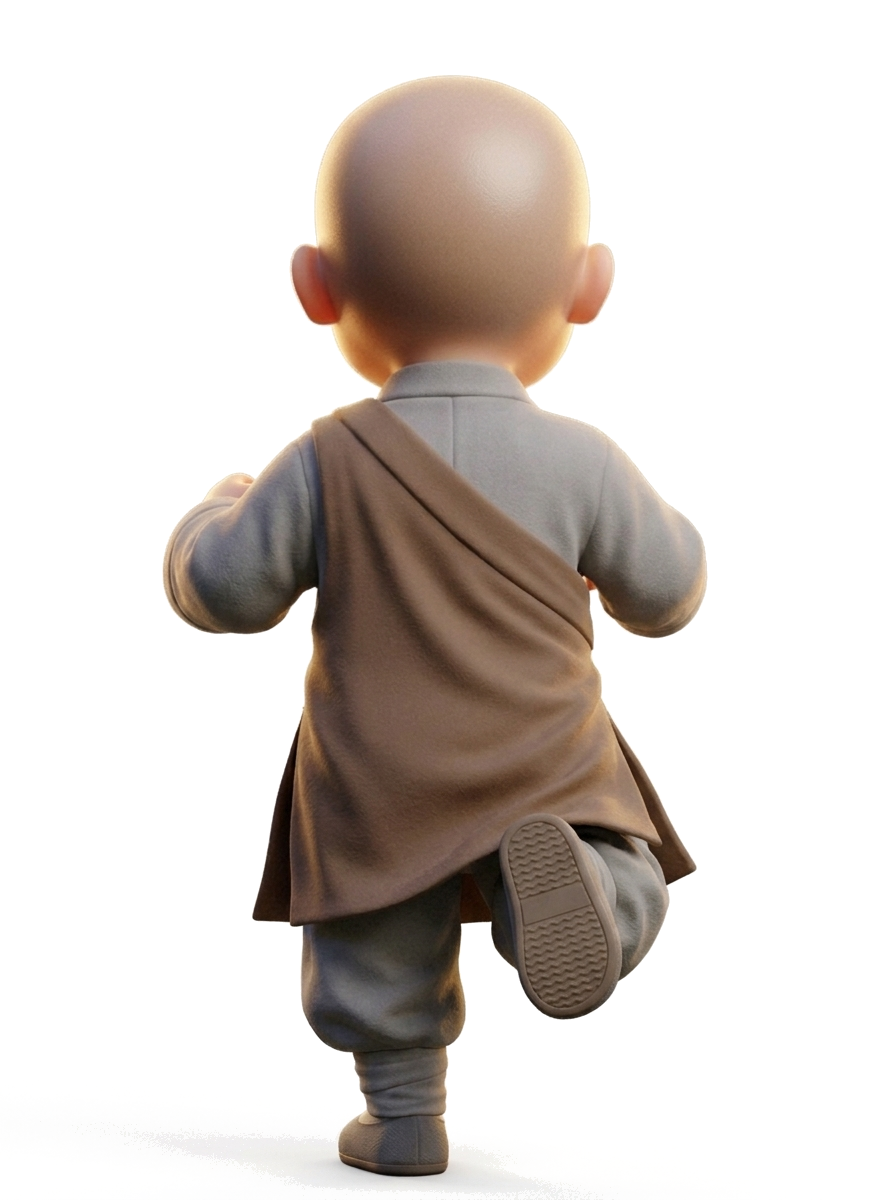
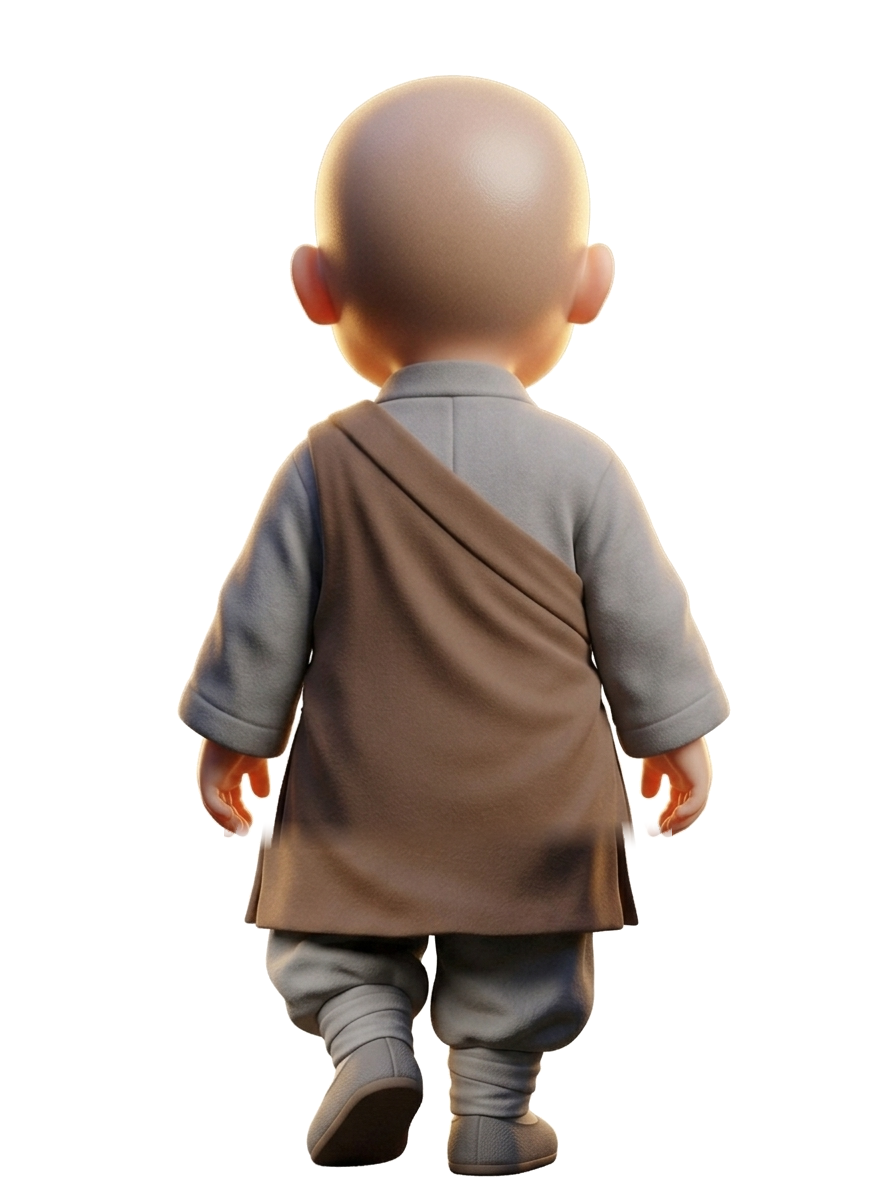
fix: smooth cross-fade walk cycle with zero-jitter upper body and natural temple pace

diff --git a/src/components/Meditate/SowonsaSanctuaryModal.jsx b/src/components/Meditate/SowonsaSanctuaryModal.jsx
@@ -368,24 +368,24 @@ export default function SowonsaSanctuaryModal({ isOpen, onClose, onOpenLantern, 
     }
 
     // 🎬 대웅전 입장 시퀀스:
-    // 0~2.4s: 왼발-오른발을 번갈아 뚜벅뚜벅 내딛으며 걸어 들어오기 (walkFrame 280ms 교차)
-    // 2.4~4.5s: 방석 위에 서서 삼존불 전 정중히 합장 반배 올리기
-    // 4.5s: 비단 방석에 가부좌 틀고 착석 완료
+    // 0~3.4s: 왼발-오른발을 번갈아 사뿐사뿐 내딛으며 대청마루에서 걸어 들어오기 (walkFrame 550ms 평온한 보행 호흡)
+    // 3.4~5.6s: 방석 앞에 서서 삼존불 전 정중히 합장 반배 올리기
+    // 5.6s+: 비단 방석에 가부좌 틀고 착석 완료
     setEntranceStep('entering')
     setWalkFrame(0)
 
     const walkTimer = setInterval(() => {
       setWalkFrame(f => (f === 0 ? 1 : 0))
-    }, 280)
+    }, 550)
 
     const tHapjang = setTimeout(() => {
       clearInterval(walkTimer)
       setEntranceStep('hapjang')
-    }, 2400)
+    }, 3400)
 
     const tSeated = setTimeout(() => {
       setEntranceStep('seated')
-    }, 4500)
+    }, 5600)
 
     return () => {
       clearInterval(walkTimer)
@@ -640,12 +640,21 @@ export default function SowonsaSanctuaryModal({ isOpen, onClose, onOpenLantern, 
               {/* 3D 동자승 실사 캐릭터 (대웅전 자연스럽게 걷기 -> 방석 위 서서 합장 반배 -> 가부좌 착석 -> 절하기/참선) */}
               <div className="relative z-10 h-28 sm:h-34 flex items-end justify-center filter drop-shadow-[0_8px_20px_rgba(0,0,0,0.9)]">
                 {entranceStep === 'entering' ? (
-                  /* 1단계: 두 팔을 자연스럽게 내리고 왼발-오른발을 번갈아 디디며 아장아장 걸어 들어오는 동자승 */
-                  <div className="flex flex-col items-center animate-monk-walk">
+                  /* 1단계: 두 팔을 자연스럽게 내리고 왼발-오른발을 번갈아 디디며 사뿐사뿐 걸어 들어오는 동자승 (부드러운 크로스페이드 보행) */
+                  <div className="relative flex items-center justify-center animate-monk-walk h-32 sm:h-38 w-28 sm:w-34">
                     <img 
-                      src={walkFrame === 0 ? "/images/avatar_monk_walk.png" : "/images/avatar_monk_walk_step2.png"} 
-                      alt="발걸음을 옮기며 걸어 들어오는 동자승" 
-                      className="h-32 sm:h-38 object-contain"
+                      src="/images/avatar_monk_walk.png" 
+                      alt="발걸음을 옮기는 동자승 오른발" 
+                      className={`absolute inset-0 w-full h-full object-contain transition-opacity duration-300 ${
+                        walkFrame === 0 ? 'opacity-100' : 'opacity-0'
+                      }`}
+                    />
+                    <img 
+                      src="/images/avatar_monk_walk_step2.png" 
+                      alt="발걸음을 옮기는 동자승 왼발" 
+                      className={`absolute inset-0 w-full h-full object-contain transition-opacity duration-300 ${
+                        walkFrame === 1 ? 'opacity-100' : 'opacity-0'
+                      }`}
                     />
                   </div>
                 ) : entranceStep === 'hapjang' ? (

diff --git a/src/index.css b/src/index.css
@@ -6,57 +6,71 @@
 @keyframes monkWalkIn {
   0% {
     opacity: 0;
-    transform: translateY(70px) scale(1.18);
+    transform: translateY(68px) scale(1.14);
   }
-  15% {
+  8% {
     opacity: 1;
-    transform: translateY(58px) scale(1.15) rotate(-2.5deg);
+    transform: translateY(60px) scale(1.12);
   }
-  30% {
-    transform: translateY(46px) scale(1.12) rotate(2.5deg);
+  18% {
+    /* 1보 착지 */
+    transform: translateY(53px) scale(1.10);
   }
-  45% {
-    transform: translateY(34px) scale(1.08) rotate(-2deg);
+  28% {
+    transform: translateY(44px) scale(1.08);
   }
-  60% {
-    transform: translateY(22px) scale(1.05) rotate(2deg);
+  38% {
+    /* 2보 착지 */
+    transform: translateY(37px) scale(1.07);
   }
-  75% {
-    transform: translateY(12px) scale(1.03) rotate(-1deg);
+  48% {
+    transform: translateY(28px) scale(1.05);
   }
-  90% {
-    transform: translateY(4px) scale(1.01) rotate(0.5deg);
+  58% {
+    /* 3보 착지 */
+    transform: translateY(21px) scale(1.04);
+  }
+  68% {
+    transform: translateY(14px) scale(1.02);
+  }
+  78% {
+    /* 4보 착지 - 방석 앞 사뿐히 도달 */
+    transform: translateY(7px) scale(1.01);
+  }
+  88% {
+    transform: translateY(2px) scale(1.00);
   }
   100% {
     opacity: 1;
-    transform: translateY(0px) scale(1) rotate(0deg);
+    transform: translateY(0px) scale(1.00);
   }
 }
 
 @keyframes monkHapjangBowing {
   0% {
     opacity: 1;
-    transform: scale(1) translateY(0px) rotate(0deg);
+    transform: scale(1) translateY(0px);
   }
-  20% {
-    transform: scale(1) translateY(0px) rotate(0deg);
+  15% {
+    transform: scale(1) translateY(0px);
   }
-  50% {
-    transform: scale(0.96) translateY(6px) rotate(-1deg);
+  45% {
+    /* 부처님 전을 향해 깊고 정성스레 허리를 굽히는 합장 반배 */
+    transform: scale(0.97) translateY(5px);
   }
   75% {
-    transform: scale(0.96) translateY(6px) rotate(0deg);
+    transform: scale(0.97) translateY(5px);
   }
   100% {
     opacity: 1;
-    transform: scale(1) translateY(0px) rotate(0deg);
+    transform: scale(1) translateY(0px);
   }
 }
 
 @keyframes monkSitDown {
   0% {
-    opacity: 0.4;
-    transform: translateY(-12px) scale(1.05);
+    opacity: 0.3;
+    transform: translateY(-10px) scale(1.04);
   }
   100% {
     opacity: 1;
@@ -65,15 +79,15 @@
 }
 
 .animate-monk-walk {
-  animation: monkWalkIn 2.2s cubic-bezier(0.25, 1, 0.5, 1) forwards;
+  animation: monkWalkIn 3.2s cubic-bezier(0.22, 1, 0.36, 1) forwards;
 }
 
 .animate-monk-hapjang {
-  animation: monkHapjangBowing 2.0s ease-in-out forwards;
+  animation: monkHapjangBowing 2.2s ease-in-out forwards;
 }
 
 .animate-monk-sit {
-  animation: monkSitDown 1.0s cubic-bezier(0.16, 1, 0.3, 1) forwards;
+  animation: monkSitDown 0.9s cubic-bezier(0.16, 1, 0.3, 1) forwards;
 }
 
 @layer base {
